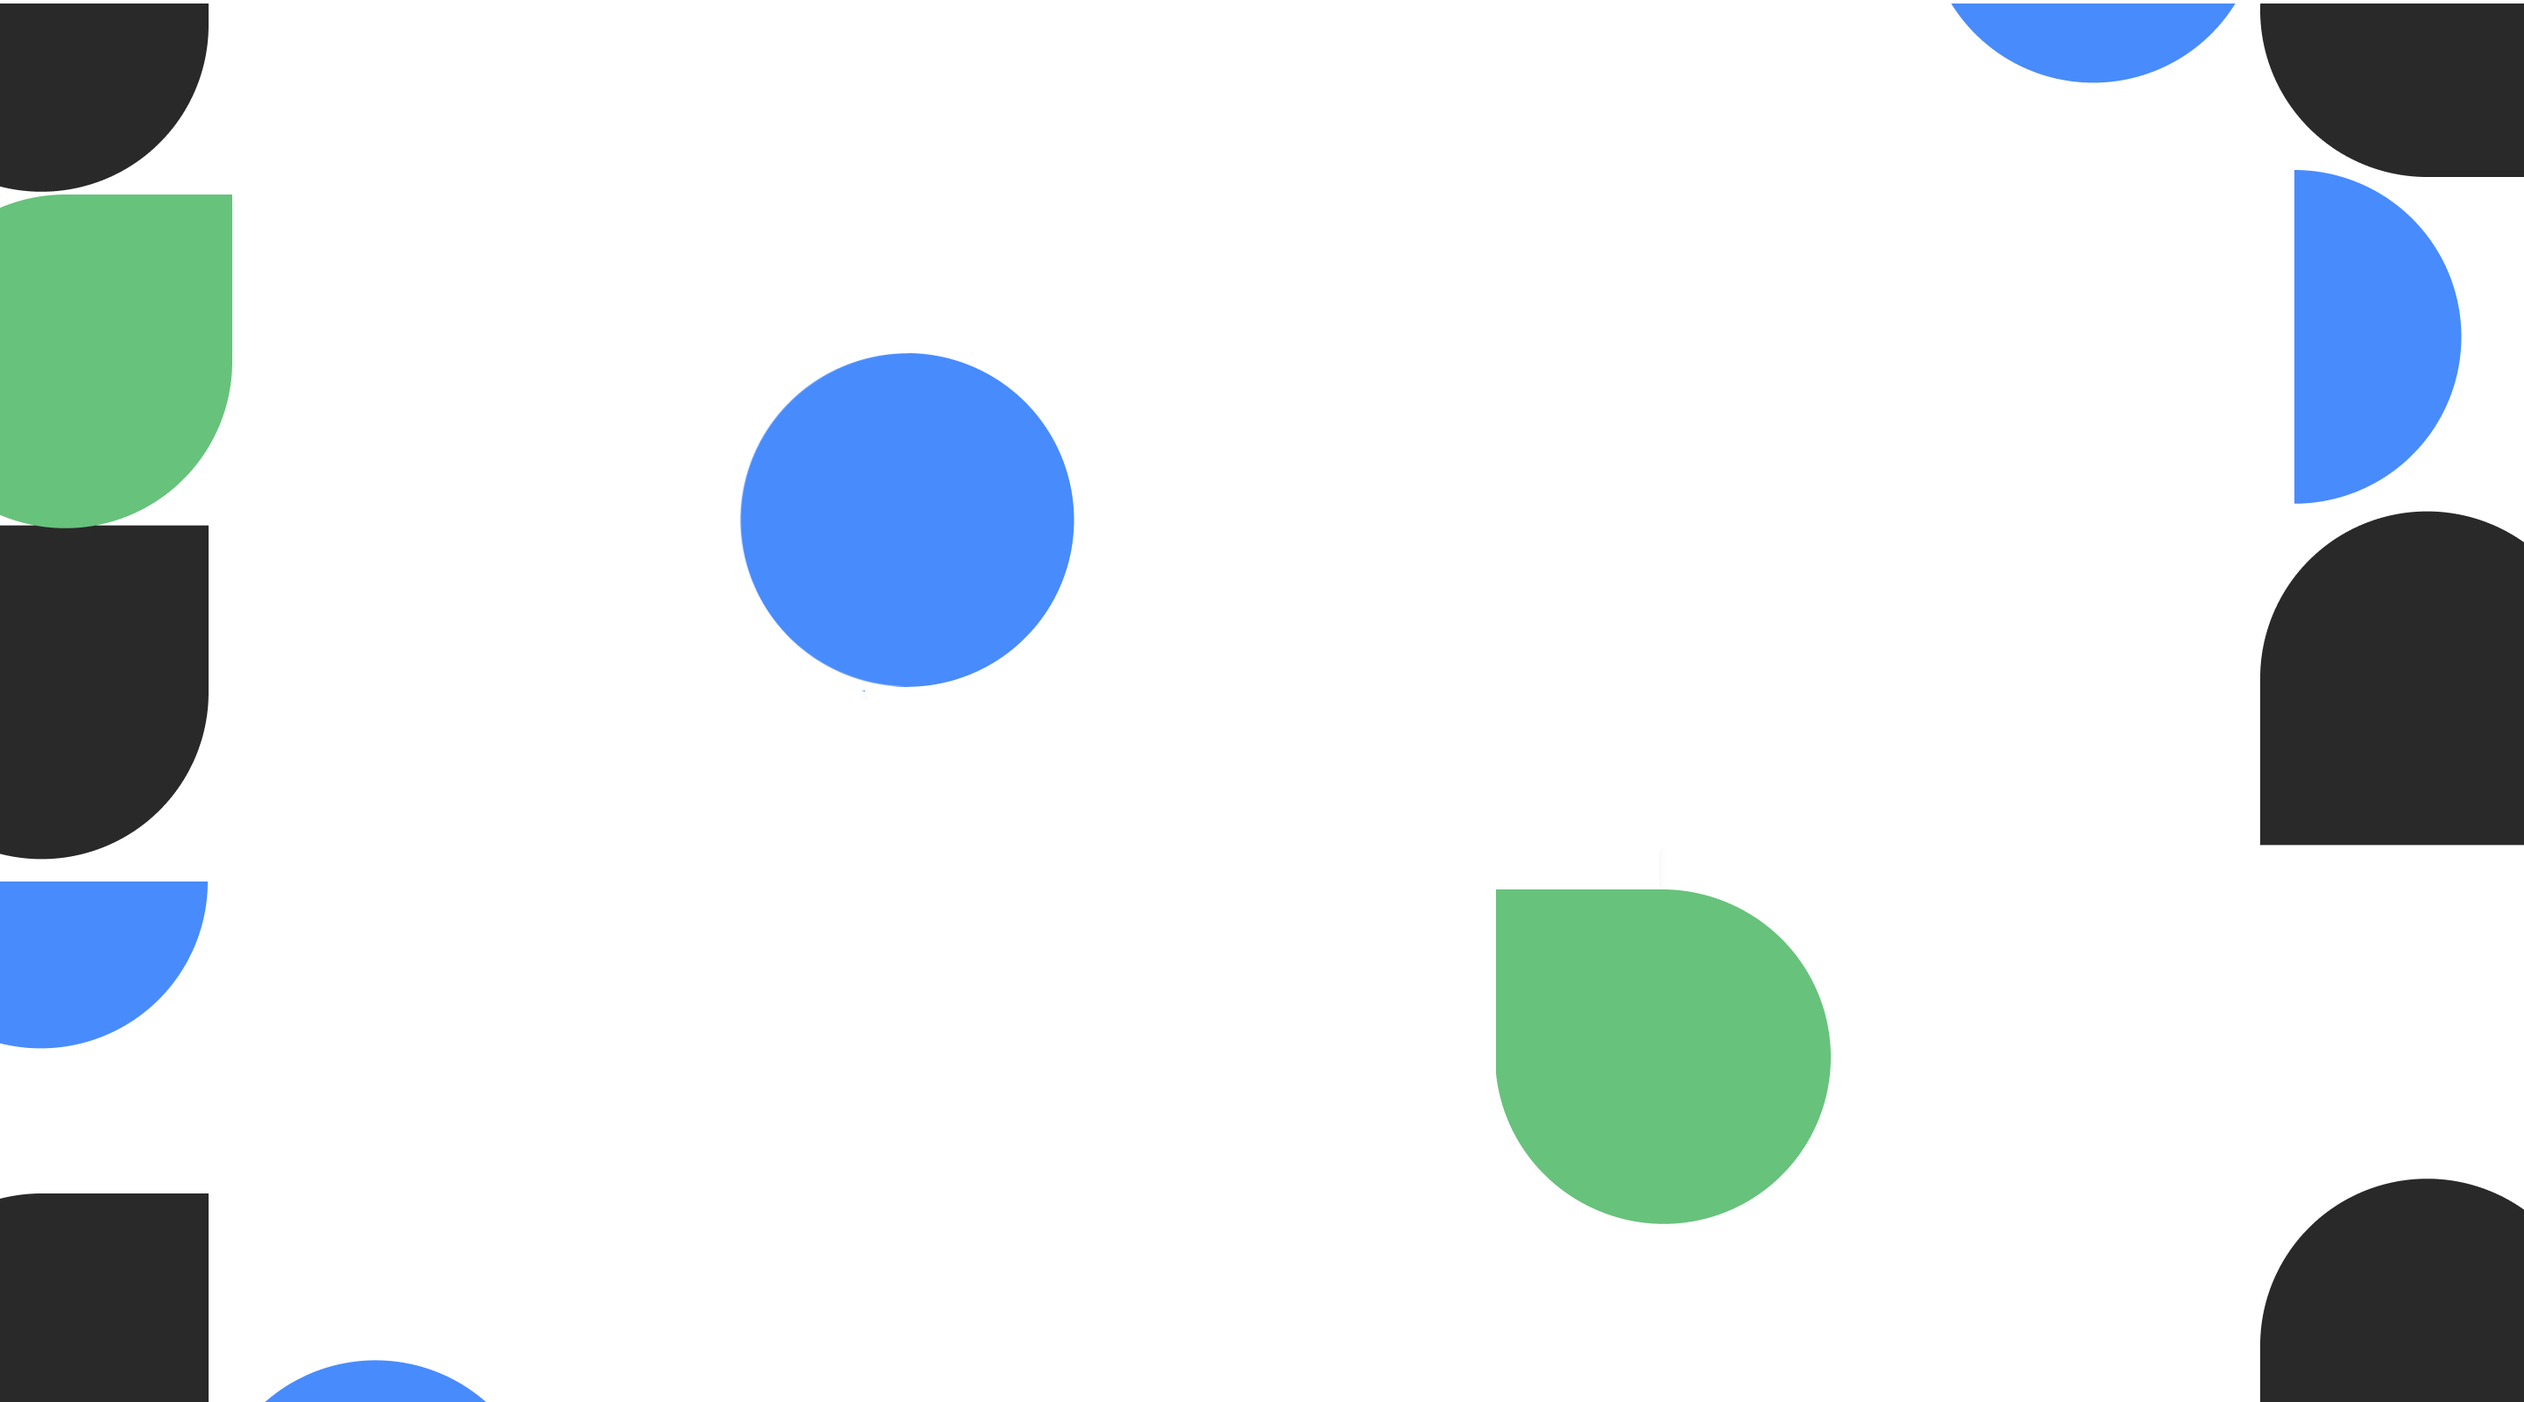
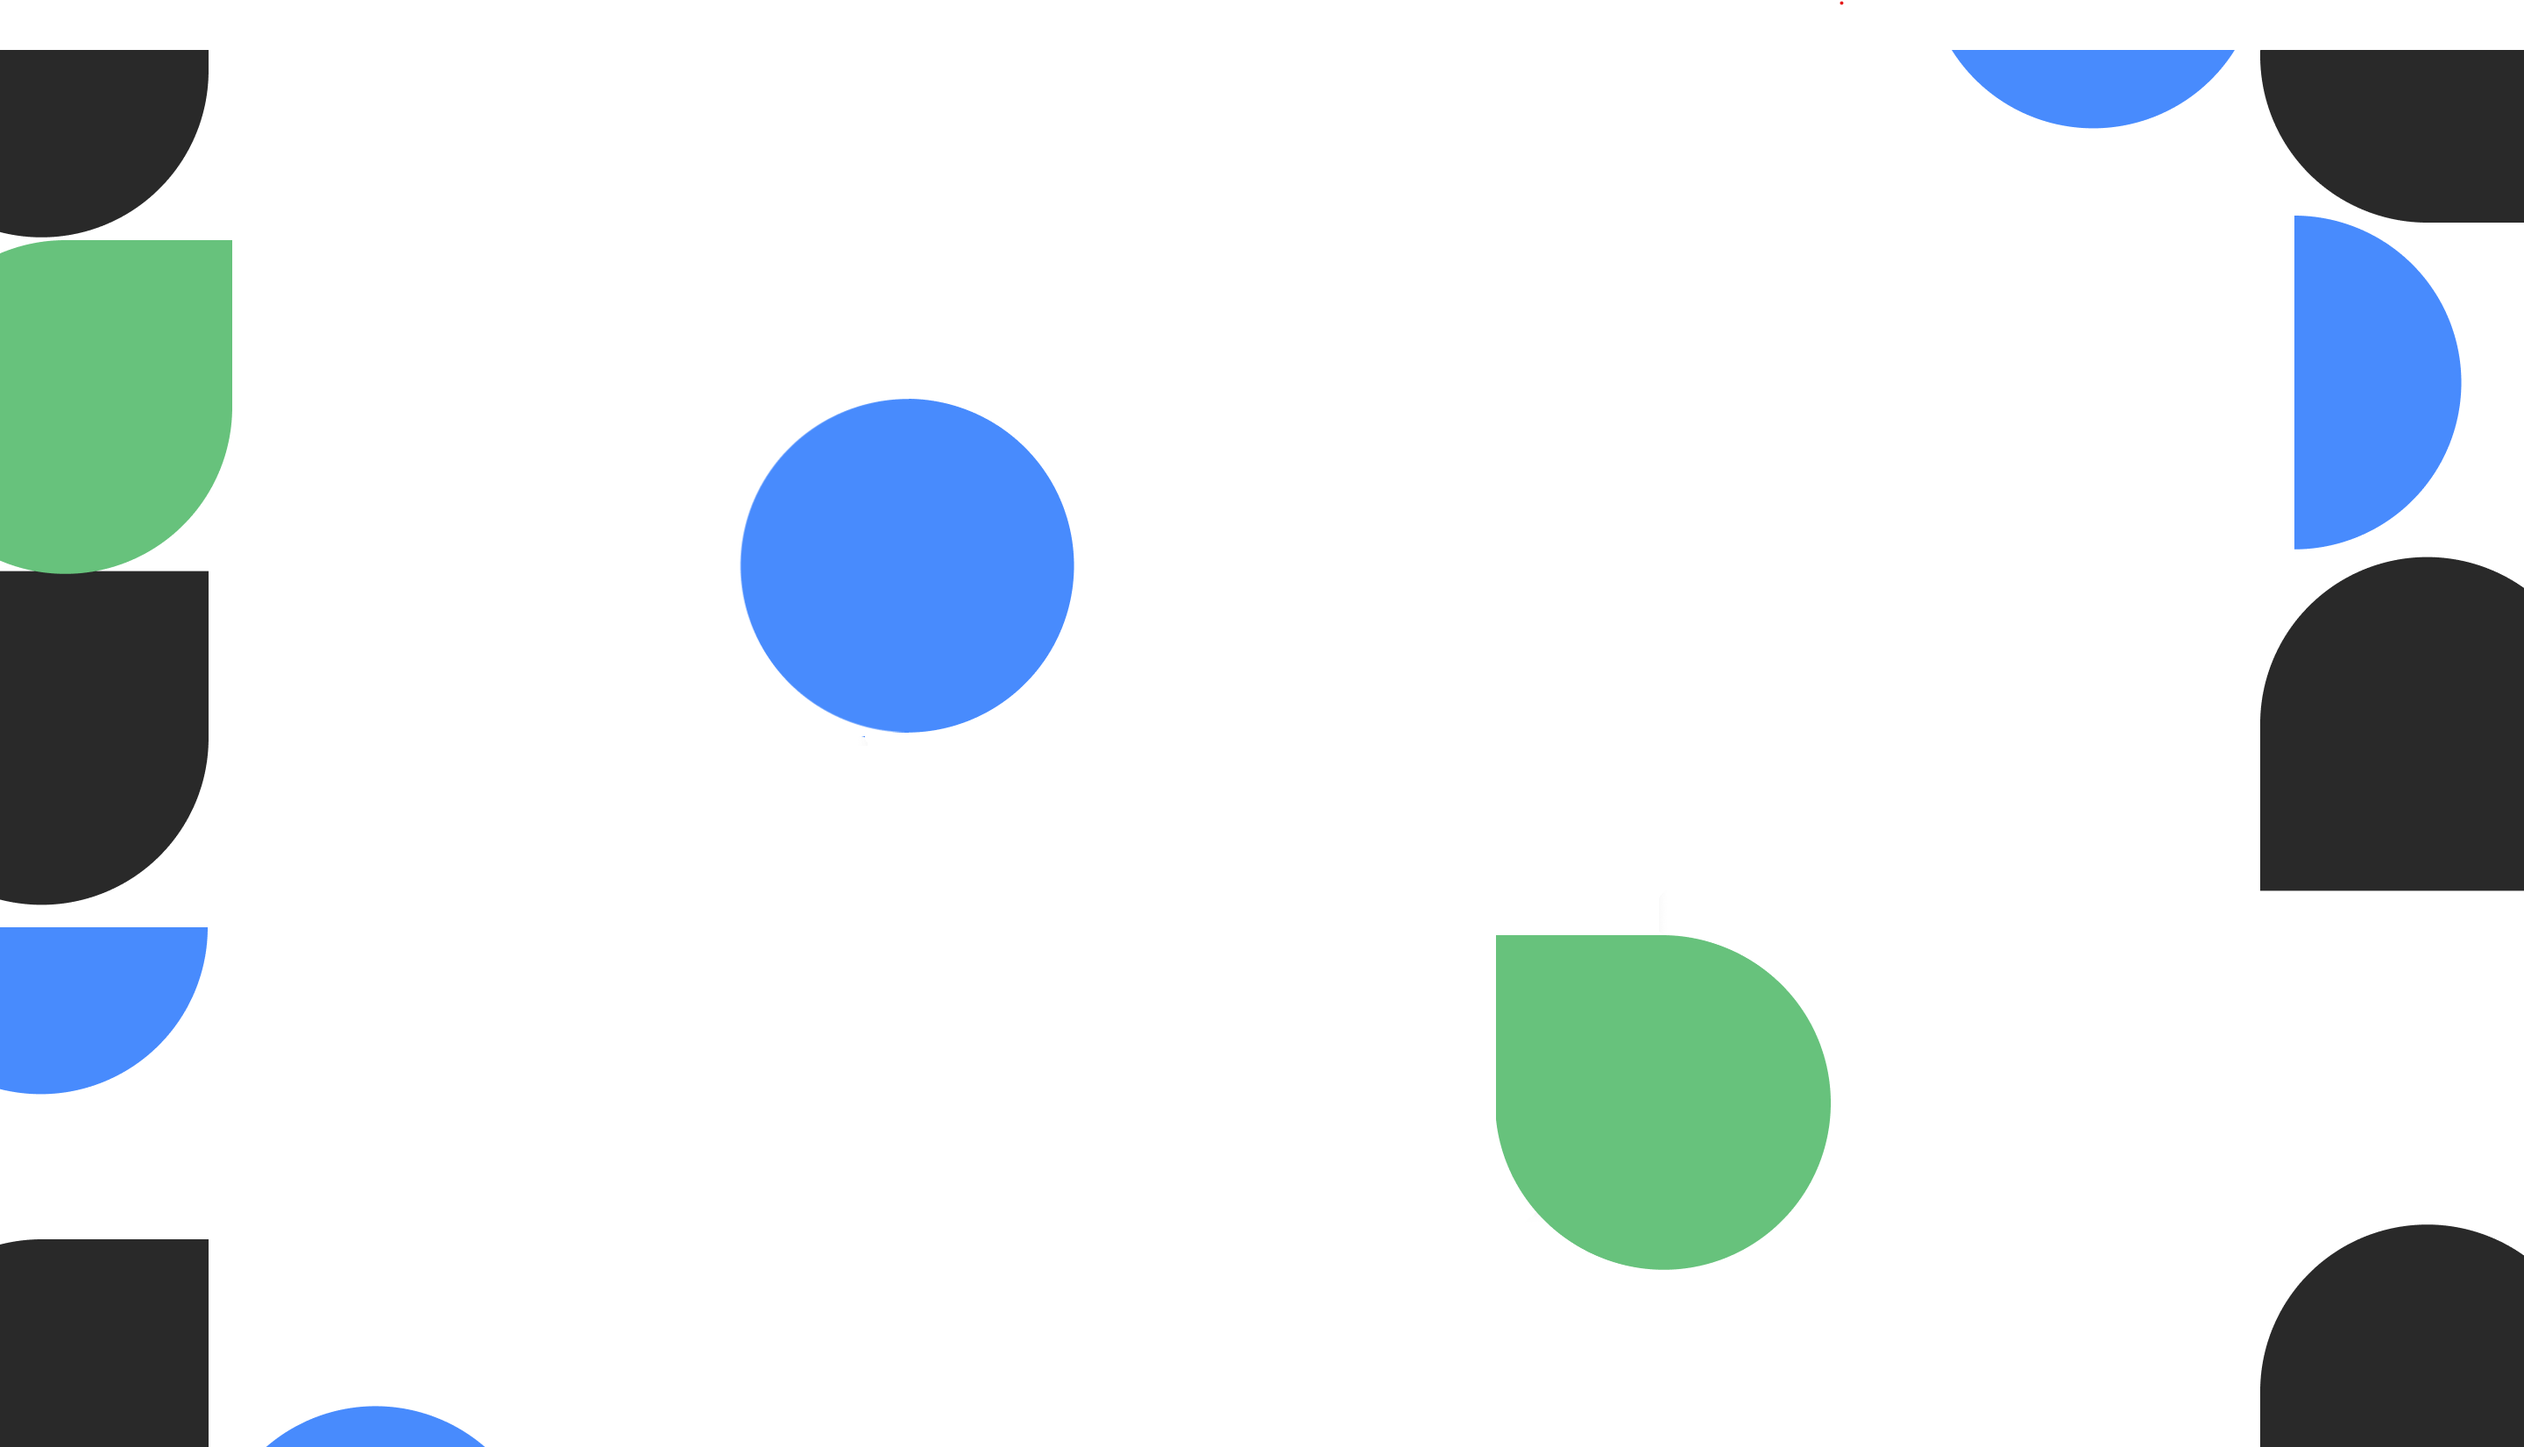
User names now added to user profiles on sign up

diff --git a/src/SignIn-SignUp/SignUp.js b/src/SignIn-SignUp/SignUp.js
@@ -7,12 +7,13 @@ import {
 import isEmail from 'validator/lib/isEmail';
 import CheckCircleIcon from '@mui/icons-material/CheckCircle';
 import { auth } from '../firebase';
-import { createUserWithEmailAndPassword } from 'firebase/auth';
+import { createUserWithEmailAndPassword, updateProfile } from 'firebase/auth';
 import { useNavigate } from 'react-router-dom';
 
 function SignIn() {
   const navigate = useNavigate();
 
+  const [name, setName] = useState('');
   const [email, setEmail] = useState('');
   const [isValidEmail, setIsValidEmail] = useState(false);
   const [password, setPassword] = useState('');
@@ -43,6 +44,13 @@ function SignIn() {
     setIsValidPassword(isPassword(inputPassword));
   };
 
+  const handleNameChange = (event) => {
+    const inputName = event.target.value;
+    setName(inputName);
+
+    // setIsValidPassword(isPassword(inputPassword));  // use to check value of name
+  };
+
 
   const isPassword = (str) => str.length >= 8;
 
@@ -61,13 +69,32 @@ function SignIn() {
     // event.preventDefault();
     createUserWithEmailAndPassword(auth, email, password)
       .then((userCredential) => {
-        setSignUpSuccess(`You've successfully signed up, ${userCredential.user.email}!`);
+        return updateProfile(userCredential.user, {
+          displayName: `${name}`
+        });
+      })
+      .then(() => {
+        setSignUpSuccess(`You've successfully signed up, ${name}!`);
         navigate('/');
       })
       .catch((error) => {
         setSignUpSuccess(`There was an error signing up: ${error.message}!`);
+        console.log(signUpSuccess);
       });
   }
+
+
+  //   function doSignUp() {
+  //   // event.preventDefault();
+  //   createUserWithEmailAndPassword(auth, email, password)
+  //     .then((userCredential) => {
+  //       setSignUpSuccess(`You've successfully signed up, ${userCredential.user.email}!`);
+  //       navigate('/');
+  //     })
+  //     .catch((error) => {
+  //       setSignUpSuccess(`There was an error signing up: ${error.message}!`);
+  //     });
+  // }
 
   return (
     <ThemeProvider theme={theme}>
@@ -128,6 +155,8 @@ function SignIn() {
                     name="name"
                     autoFocus
                     className='input-field'
+                    value={name}
+                    onChange={handleNameChange}
                   />
 
                   <div style={{

diff --git a/src/components/Quizzes.jsx b/src/components/Quizzes.jsx
@@ -1,13 +1,10 @@
 import '../Styles/Components.css';
-import React, { useState, useEffect } from "react";
-import { createTheme, ThemeProvider } from '@mui/material';
-// import QuizCard from './QuizCard';
+import React, { useEffect } from "react";
 import Cards from './Cards';
 import { useNavigate, useParams } from 'react-router-dom';
 import { useTheme } from '@mui/material/styles';
 import useMediaQuery from '@mui/material/useMediaQuery';
 import { useSelector } from "react-redux/es/hooks/useSelector";
-import { v4 as uuidv4 } from 'uuid';
 
 
 export default function Quizzes(props) {

diff --git a/src/Styles/Components.css b/src/Styles/Components.css
@@ -229,12 +229,17 @@ Button.button-darkMediumBlue {
 
 .SignUp-SignIn {
     text-align: center;
-    background-image: url('../../public/img/SignUp-SignIn-bg.png');
+    background-image: url('../../public/img/login.png');
     background-size: contain;
-    background-repeat: no-repeat;
+    background-repeat: repeat repeat;
     background-position: center;
+    
     min-width: 300px;
     min-height: 250px;
+    margin: 0; /* Reset margin */
+    padding: 0; /* Reset padding */
+    border: 0; /* Reset border */
+    box-sizing: border-box;
 }
 
 @media (max-width: 600px) {

diff --git a/src/components/QuizCategoryDashboard.jsx b/src/components/QuizCategoryDashboard.jsx
@@ -237,8 +237,8 @@ export default function QuizCategoryDashboard(props) {
             Quiz Board  {/* Google web font 'Anton' */}
           </h1>
 
-          {/* {printUserButton}
-          {updateUserButton} */}
+          {printUserButton}
+          {updateUserButton}
 
           <Box style={{
             display: !isMobile ? 'flex' : 'block',
